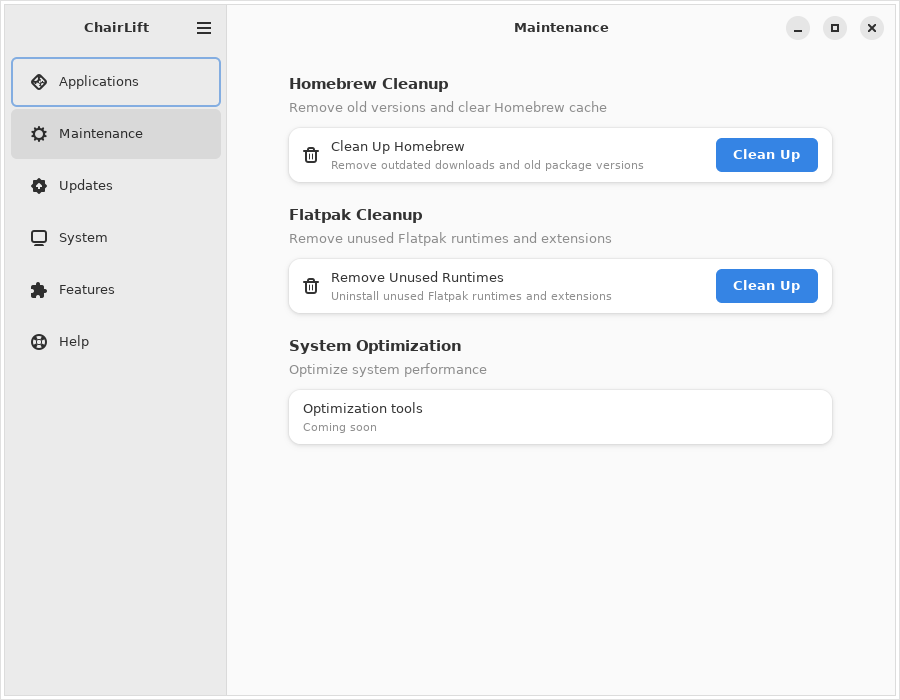
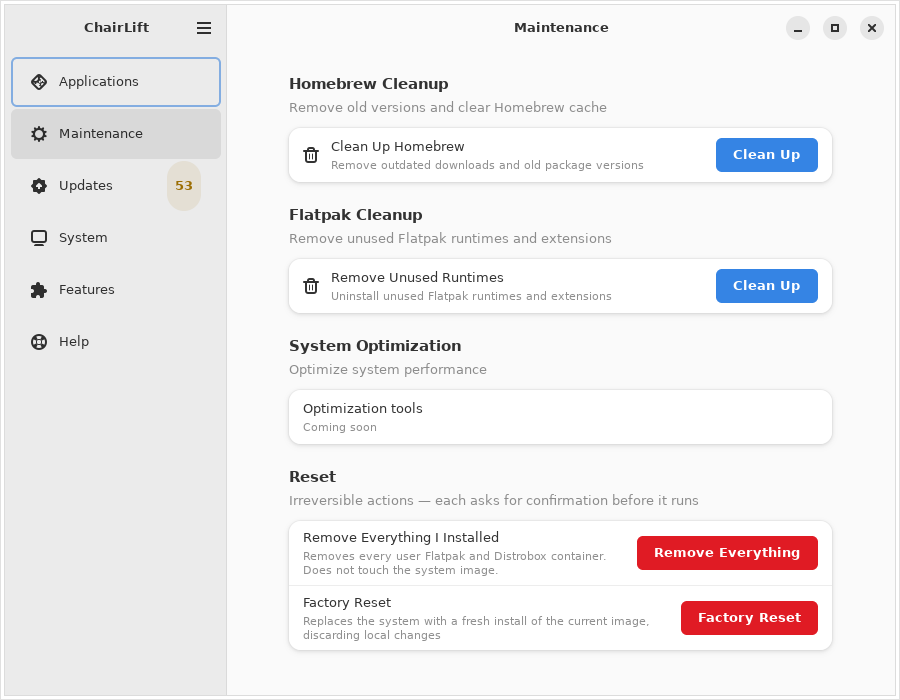
Capture the Reset group in the walkthrough
reset_group ships disabled because both actions are irreversible, which meant
the two most consequential rows ChairLift gained were documented in prose and
absent from every frame. The walkthrough exists to show every feature,
including the ones an administrator opts into.

The capture enables it through ordinary configuration rather than a build-tag
stub: internal/config resolves a relative candidate alongside the executable
first, so a file dropped next to the e2e binary applies to this capture and
leaves the shipped config.yml untouched.

Also corrects the reason recorded for not capturing the changelog drill-down.
The stub-surface invariant would permit a bootc-status stub — the stage
helper is built without the tag and resolves its own state — so the honest
reason is that the surface is capped deliberately and one frame does not
justify growing it on the staging package.

diff --git a/docs/plans/2026-08-17-bluefin-suite-parity-plan.md b/docs/plans/2026-08-17-bluefin-suite-parity-plan.md
@@ -239,10 +239,13 @@ Not met: the walkthrough does not capture the drill-down. It lives inside
 `bootc_updates_group`, which is hidden unless the host is booted from a bootc
 deployment *and* ships the stage script — the capture runner is neither, so
 the whole System Updates group is absent from `3-updates.png`. Capturing it
-would need a fourth `chairlift_e2e` stub standing in for `bootc status`, and
-that stub would sit on the OS-staging path rather than on a read-only
-display-side classification, which is the line the stub-surface invariant
-draws. The row's text and every diff category are covered by
+would need a fourth `chairlift_e2e` stub standing in for `bootc status`. The
+stub-surface invariant would permit it — the stage helper is built without
+the tag and resolves its own state, so a GUI-side status stub stays
+display-only — but the surface is capped deliberately, and growing it on the
+staging package to gain one frame is not a trade worth making. (Contrast
+`reset_group`, which the capture enables through ordinary configuration
+rather than a stub, and which is therefore in the frame.) The row's text and every diff category are covered by
 `pageview.ChangelogSections`/`ChangelogSummary` table tests instead, and
 `docs/walkthrough.md` says plainly why the group is missing from the frame.
 

diff --git a/docs/walkthrough.md b/docs/walkthrough.md
@@ -79,9 +79,10 @@ taps.
 ![Maintenance](screenshots/2-maintenance.png)
 
 Homebrew and Flatpak cleanup, plus any maintenance actions the image
-maintainer configured. An optional **Reset** group (off by default) adds
-Powerwash — remove every Flatpak and Distrobox container — and Factory
-Reset, each behind a confirmation dialog since neither can be undone.
+maintainer configured. The **Reset** group ships off; it is
+enabled above so you can see it. Powerwash removes every user Flatpak and
+Distrobox container, Factory Reset reinstalls the current image, and each
+asks for confirmation first since neither can be undone.
 
 ---
 
